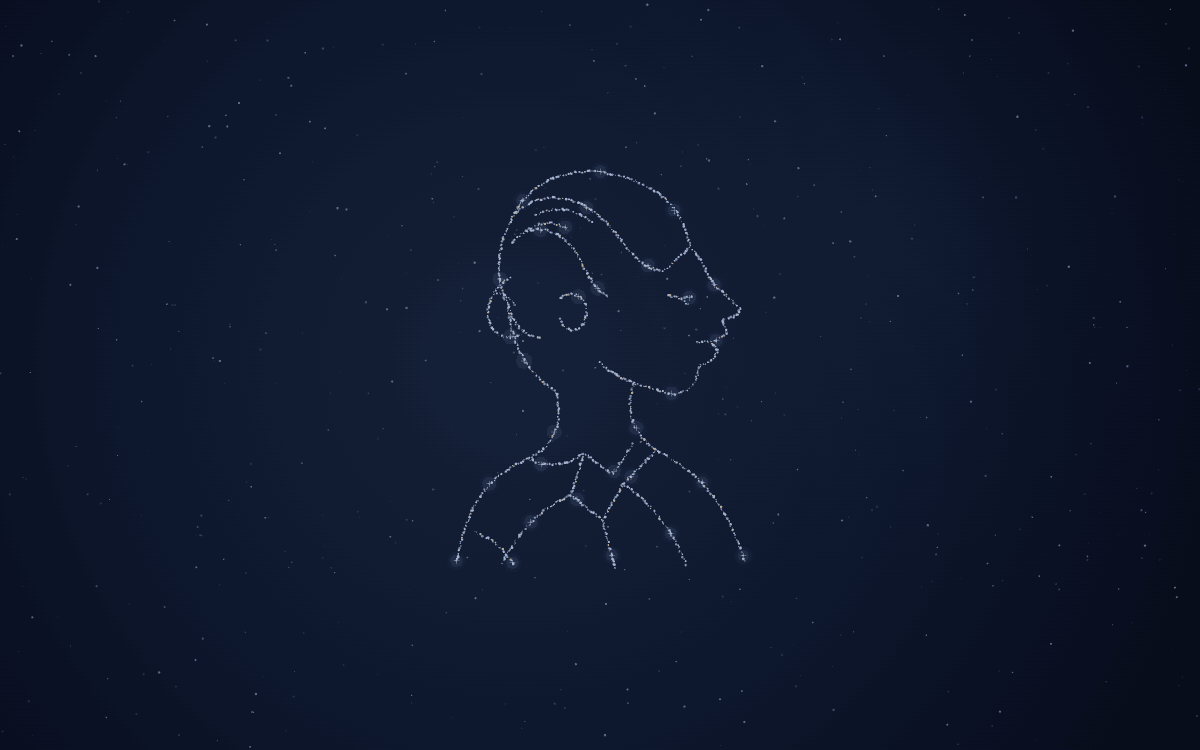
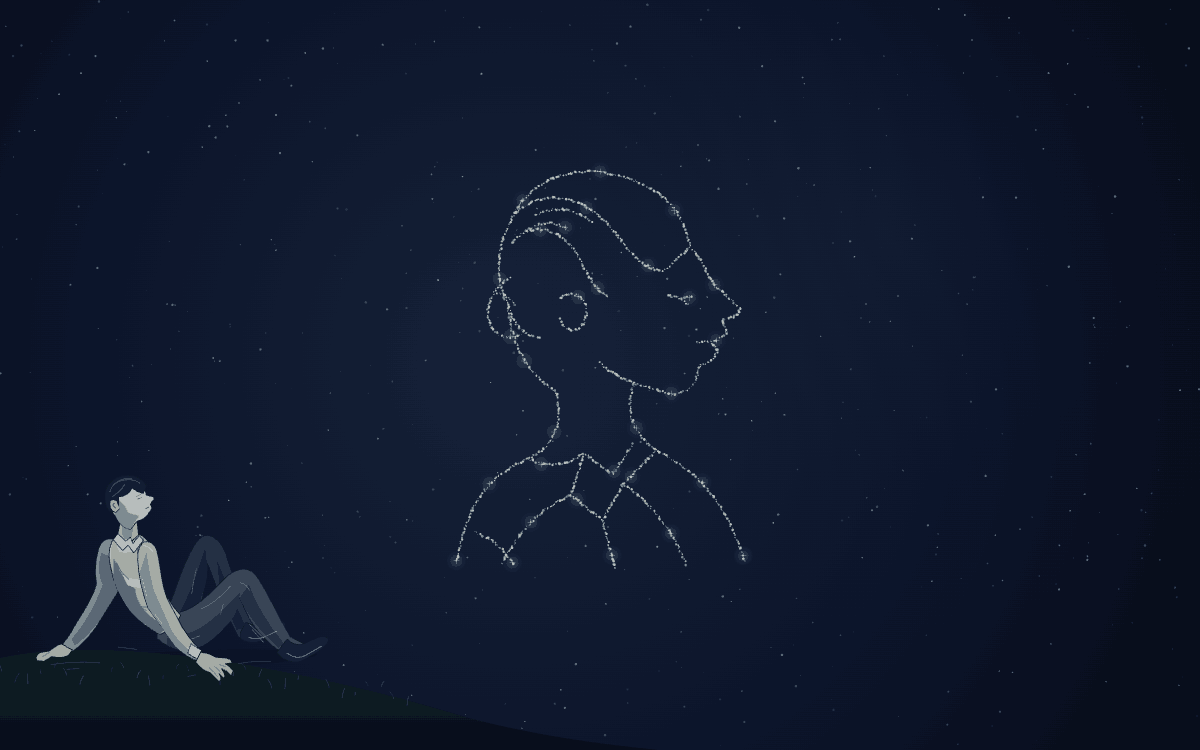
lab: update star-counting-night

Changed region(s): [[0.0308, 0.644, 0.2467, 0.92]]

diff --git a/lab/sketches/star-counting-night.html b/lab/sketches/star-counting-night.html
@@ -1,8 +1,8 @@
 <!doctype html>
 <html lang="ko"><head><meta charset="utf-8"><meta name="viewport" content="width=device-width,initial-scale=1"><meta name="theme-color" content="#080e20"><title>별 헤는 밤 — Lab</title><link rel="icon" href="data:,"><style>
-*{box-sizing:border-box}html,body{margin:0;width:100%;height:100%;overflow:hidden;background:#080e20;color:#e4e8ef;font-family:Archivo,"Helvetica Neue",Arial,sans-serif}canvas{display:block;width:100%;height:100%;touch-action:none}button,input{font:inherit}button{cursor:pointer}button:focus-visible,input:focus-visible,canvas:focus-visible{outline:1px solid #8095ff;outline-offset:7px}.choices{position:fixed;inset:auto 12% 76px;display:flex;justify-content:space-between;pointer-events:none}.star{pointer-events:auto;background:none;border:0;color:#99a4bb;min-width:64px;min-height:66px;padding:10px 12px;font-family:"AppleMyungjo","Batang",serif;font-size:13px;letter-spacing:4px;transition:color .6s}.star::before{content:"✧";display:block;font-family:Arial,sans-serif;font-size:24px;line-height:1.3;color:#bbc9ea;text-shadow:0 0 18px #829aff}.star[aria-pressed="true"]{color:#fff0d2}.star[aria-pressed="true"]::before{content:"✦";color:#e6cf9c}.star[data-seen="true"]::after{content:"·";display:block;position:absolute;margin-left:25px;color:#dbc89c}.hint{position:fixed;bottom:21px;left:20px;right:20px;text-align:center;font-size:11px;letter-spacing:1.2px;line-height:1.8;color:#8a8fa2;pointer-events:none;margin:0}.tools{position:fixed;top:22px;right:24px;display:flex;gap:18px}.tools button{border:0;background:none;color:#a2acc0;font-size:10px;letter-spacing:1.2px;padding:10px 0}.tools button[hidden]{display:none}.caption{position:fixed;top:13%;left:0;right:0;text-align:center;pointer-events:none;font-family:"AppleMyungjo","Batang",serif;color:#e6dfd3;font-size:clamp(19px,2.2vw,28px);letter-spacing:.5em;opacity:0;transition:opacity 1s}.caption.visible{opacity:1}.caption small{display:block;margin-top:17px;font-family:Archivo,Arial,sans-serif;color:#838da5;font-size:9px;letter-spacing:3px}.fallback{position:fixed;top:43%;left:10%;right:10%;text-align:center;font-size:14px;line-height:1.8;color:#c9c9c6}.fallback[hidden]{display:none}.sr{position:absolute;width:1px;height:1px;overflow:hidden;clip-path:inset(50%)}dialog{background:#10192bf5;color:#e4e8ef;border:1px solid #303c57;padding:28px;width:min(340px,85vw);box-shadow:0 20px 100px #0008}dialog::backdrop{background:#02050da0}dialog label{display:block;font-family:"AppleMyungjo","Batang",serif;letter-spacing:2px;margin-bottom:19px}dialog input{width:100%;padding:10px 0;border:0;border-bottom:1px solid #60708f;color:#fff;background:none;font-size:19px}dialog p{font-size:11px;color:#99a4bb;line-height:1.8}dialog div{display:flex;justify-content:flex-end;gap:20px;margin-top:24px}dialog button{border:0;background:none;color:#d6dfef;padding:8px;font-size:12px}svg{position:absolute;width:0;height:0;overflow:hidden}@media(max-width:500px){.choices{left:8%;right:8%;bottom:72px}.caption{top:16%}.tools{top:14px;right:20px}.star{font-size:12px;letter-spacing:3px}.hint{font-size:11px}.caption small{font-size:8px}}@media(max-height:480px){.caption{top:8%;font-size:18px}.caption small{display:none}.choices{left:5%;right:5%;bottom:37px}.star{min-height:48px;font-size:11px;padding:4px}.hint{bottom:9px}.tools{top:7px}}@media(prefers-reduced-motion:reduce){*{transition:none!important}}
+*{box-sizing:border-box}html,body{margin:0;width:100%;height:100%;overflow:hidden;background:#080e20;color:#e4e8ef;font-family:Archivo,"Helvetica Neue",Arial,sans-serif}canvas{display:block;width:100%;height:100%;touch-action:none}button,input{font:inherit}button{cursor:pointer}button:focus-visible,input:focus-visible,canvas:focus-visible{outline:1px solid #8095ff;outline-offset:7px}.choices{position:fixed;inset:auto 10% 76px 43%;display:flex;justify-content:space-between;pointer-events:none}.star{pointer-events:auto;background:none;border:0;color:#99a4bb;min-width:64px;min-height:66px;padding:10px 12px;font-family:"AppleMyungjo","Batang",serif;font-size:13px;letter-spacing:4px;transition:color .6s}.star::before{content:"✧";display:block;font-family:Arial,sans-serif;font-size:24px;line-height:1.3;color:#bbc9ea;text-shadow:0 0 18px #829aff}.star[aria-pressed="true"]{color:#fff0d2}.star[aria-pressed="true"]::before{content:"✦";color:#e6cf9c}.star[data-seen="true"]::after{content:"·";display:block;position:absolute;margin-left:25px;color:#dbc89c}.hint{position:fixed;bottom:21px;left:20px;right:20px;text-align:center;font-size:11px;letter-spacing:1.2px;line-height:1.8;color:#8a8fa2;pointer-events:none;margin:0}.tools{position:fixed;top:22px;right:24px;display:flex;gap:18px}.tools button{border:0;background:none;color:#a2acc0;font-size:10px;letter-spacing:1.2px;padding:10px 0}.tools button[hidden]{display:none}.caption{position:fixed;top:13%;left:0;right:0;text-align:center;pointer-events:none;font-family:"AppleMyungjo","Batang",serif;color:#e6dfd3;font-size:clamp(19px,2.2vw,28px);letter-spacing:.5em;opacity:0;transition:opacity 1s}.caption.visible{opacity:1}.caption small{display:block;margin-top:17px;font-family:Archivo,Arial,sans-serif;color:#838da5;font-size:9px;letter-spacing:3px}.fallback{position:fixed;top:43%;left:10%;right:10%;text-align:center;font-size:14px;line-height:1.8;color:#c9c9c6}.fallback[hidden]{display:none}.sr{position:absolute;width:1px;height:1px;overflow:hidden;clip-path:inset(50%)}dialog{background:#10192bf5;color:#e4e8ef;border:1px solid #303c57;padding:28px;width:min(340px,85vw);box-shadow:0 20px 100px #0008}dialog::backdrop{background:#02050da0}dialog label{display:block;font-family:"AppleMyungjo","Batang",serif;letter-spacing:2px;margin-bottom:19px}dialog input{width:100%;padding:10px 0;border:0;border-bottom:1px solid #60708f;color:#fff;background:none;font-size:19px}dialog p{font-size:11px;color:#99a4bb;line-height:1.8}dialog div{display:flex;justify-content:flex-end;gap:20px;margin-top:24px}dialog button{border:0;background:none;color:#d6dfef;padding:8px;font-size:12px}svg{position:absolute;width:0;height:0;overflow:hidden}@media(max-width:500px){.choices{left:8%;right:8%;bottom:72px}.caption{top:16%}.tools{top:14px;right:20px}.star{font-size:12px;letter-spacing:3px}.hint{font-size:11px}.caption small{font-size:8px}}@media(max-height:480px){.caption{top:8%;font-size:18px}.caption small{display:none}.choices{left:5%;right:5%;bottom:37px}.star{min-height:48px;font-size:11px;padding:4px}.hint{bottom:9px}.tools{top:7px}}@media(prefers-reduced-motion:reduce){*{transition:none!important}}
 </style></head><body>
-<canvas id="sky" tabindex="0" aria-label="별빛으로 기억을 그리는 밤하늘. 아래 추억, 쓸쓸함, 어머니 별을 선택하세요. 빈 하늘 클릭 또는 Escape로 흩어집니다."></canvas>
+<canvas id="sky" tabindex="0" aria-label="언덕에 기대 누워 하늘을 보는 윤동주와 별빛으로 기억을 그리는 밤하늘. 아래 추억, 쓸쓸함, 어머니 별을 선택하세요. 빈 하늘 클릭 또는 Escape로 흩어집니다."></canvas>
 <div class="caption" aria-hidden="true"><span id="word"></span><small id="verse"></small></div>
 <nav class="choices" aria-label="떠올릴 기억"><button class="star" data-scene="0" aria-pressed="false">추억</button><button class="star" data-scene="1" aria-pressed="false">쓸쓸함</button><button class="star" data-scene="2" aria-pressed="false">어머니</button></nav>
 <div class="tools"><button id="name" hidden>이름 남기기</button><button id="pause" aria-pressed="false">PAUSE</button></div>
@@ -38,9 +38,116 @@ function setTargets(){targetPoints=active===3?customPoints:active>=0?forms[activ
 function choose(index){active=index;setTargets();window.nightStats.active=active;window.nightStats.progress=progress;buttons.forEach((b,i)=>b.setAttribute('aria-pressed',String(i===index)));caption.classList.remove('visible');if(index>=0){announce.textContent=(index===3?document.querySelector('#memory-name').value.trim():scenes[index].word)+'의 별들이 모입니다.';}else announce.textContent='별들이 다시 밤하늘로 흩어집니다.';invalidate();}
 buttons.forEach((b,i)=>b.addEventListener('click',()=>choose(active===i?-1:i)));
 function background(){bg=document.createElement('canvas');bg.width=width;bg.height=height;const c=bg.getContext('2d');c.fillStyle='#080e20';c.fillRect(0,0,width,height);let g=c.createRadialGradient(width*.43,height*.48,0,width*.43,height*.48,width*.65);g.addColorStop(0,'#162239');g.addColorStop(.55,'#0c152b');g.addColorStop(1,'#070b19');c.fillStyle=g;c.fillRect(0,0,width,height);g=c.createRadialGradient(width*.74,height*.31,0,width*.74,height*.31,width*.34);g.addColorStop(0,'#493f551c');g.addColorStop(1,'#0c152b00');c.fillStyle=g;c.fillRect(0,0,width,height);}
+/* A small, interpretive ink portrait of the poet: no external assets.
+   Geometry is prebuilt once; time is the caller's animation clock in seconds.
+   Figure occupies a 400 × 280 drawing box at the lower left. The mobile
+   baseline leaves 176 px for scene choices and instructions. */
+const drawPoetForeground = (() => {
+  const path = (d) => new Path2D(d);
+  const shapes = {
+    farLeg: path('M171 198 C188 174 191 140 213 105 Q222 92 234 97 Q249 105 254 130 L282 203 304 210 300 222 267 224 Q254 199 244 173 L228 131 Q226 163 215 198 L205 215 Z'),
+    farLegShade: path('M225 109 Q230 141 225 157 L212 203 196 215 186 204 Q208 166 219 128 Z M239 124 Q257 169 277 212 L264 215 243 164 Z'),
+    farShoe: path('M276 205 Q289 211 301 210 L315 203 Q322 201 326 207 Q324 215 310 222 L289 230 Q276 231 269 225 L269 218 Z'),
+    nearLeg: path('M168 191 C199 201 223 177 245 154 C260 137 278 132 289 146 C301 162 315 194 332 223 L351 233 345 247 321 243 Q294 225 280 200 L268 174 C251 203 229 231 198 241 Q178 238 164 225 Z'),
+    nearLegShade: path('M178 220 C211 227 240 198 268 168 Q269 185 257 203 C238 225 222 239 198 241 L177 234 Z M280 158 Q293 194 324 232 L317 237 Q291 213 278 192 L268 175 Z'),
+    trouserLines: path('M220 188 Q239 180 257 159 M269 155 Q276 156 281 165 M280 207 L299 225 M284 214 L298 230 M214 137 Q209 157 208 169 M248 181 L244 195 M192 225 Q205 229 218 222'),
+    nearShoe: path('M328 226 Q338 236 349 232 L367 224 Q376 221 380 226 Q380 232 368 241 L347 253 Q336 258 322 250 L315 243 Z'),
+    shoeLight: path('M328 244 Q341 253 352 246 L371 235 M280 224 Q288 227 298 224 L315 216'),
+    rearArm: path('M113 101 Q97 96 91 111 Q84 135 88 157 C82 179 65 200 54 221 L44 234 55 244 Q73 232 87 212 L115 167 Q121 143 123 119 Z'),
+    rearArmShade: path('M94 118 Q88 143 96 158 C88 181 74 207 57 226 L61 234 Q78 222 95 198 L115 165 Q111 144 112 125 Z'),
+    rearHand: path('M44 232 Q37 234 29 241 L17 243 Q10 247 13 253 L22 254 32 248 Q42 251 52 247 L58 240 Z'),
+    shirt: path('M112 97 L132 92 Q145 93 153 103 C164 116 164 145 174 166 Q182 184 194 196 Q188 213 168 220 C151 212 134 198 124 181 Q109 157 105 131 Q101 111 112 97 Z'),
+    shirtShade: path('M110 125 Q121 151 137 164 C138 184 157 202 177 210 L168 220 Q135 201 124 181 Q112 162 109 147 Z M147 99 Q153 120 150 135 Q145 138 142 132 L136 99 Z'),
+    shirtLight: path('M111 103 Q123 103 134 98 L142 111 Q130 120 117 117 Z M121 145 Q135 153 153 151 L158 161 Q139 164 127 158 Z'),
+    shirtFolds: path('M113 130 Q119 144 129 151 M129 178 Q139 188 151 190 M138 181 Q145 187 153 186 M152 175 Q157 188 172 198 M158 201 L171 205 M148 126 L145 148 M143 154 L147 167 M122 166 L127 175'),
+    neck: path('M119 74 L115 95 Q118 108 130 106 L141 96 139 77 Z'),
+    neckShade: path('M121 78 L135 81 133 98 124 102 120 94 Z'),
+    head: path('M111 40 C115 28 132 26 143 34 Q150 38 151 46 L159 48 Q163 50 158 54 L156 58 Q160 62 155 67 Q151 76 139 79 L131 89 Q119 87 113 74 Q105 66 105 54 Z'),
+    faceShade: path('M117 53 Q124 57 128 68 L142 72 137 79 131 89 Q119 87 113 74 Q108 67 108 60 Z'),
+    hair: path('M108 68 Q99 64 99 51 C97 37 107 24 121 22 Q140 18 151 34 L147 44 Q139 42 133 37 Q127 48 116 48 L116 60 111 65 Z'),
+    hairSweep: path('M105 42 Q108 29 123 27 Q135 25 143 31 M108 48 Q119 41 124 32 M111 32 Q121 23 132 25'),
+    ear: path('M113 53 Q105 49 105 57 Q105 65 112 68 L117 63'),
+    faceLines: path('M138 48 L144 45 M140 51 L145 49 M154 61 L150 63 M111 57 Q109 55 109 59 L112 62'),
+    collar: path('M115 94 L125 103 131 98 134 106 142 96 147 102 135 118 128 108 121 115 109 101 Z'),
+    nearArm: path('M147 104 Q159 101 164 114 C169 133 169 155 177 175 L196 211 Q207 229 221 242 L215 253 Q194 245 183 229 L153 187 C145 166 141 145 140 126 Q139 112 147 104 Z'),
+    nearArmShade: path('M151 117 Q154 141 160 164 L183 216 Q195 235 215 247 L211 252 Q190 241 182 228 L153 187 Q145 164 143 142 Z'),
+    cuff: path('M207 232 L220 240 216 252 203 244 Z'),
+    nearHand: path('M219 243 Q230 243 238 249 L252 250 Q259 252 258 256 L250 257 Q257 261 260 266 L258 271 Q256 272 253 267 L245 263 Q252 273 248 275 L242 269 Q247 278 242 279 L231 268 Q221 266 213 255 Z'),
+    fingers: path('M242 258 L251 261 M236 260 Q242 264 245 269 M230 262 Q237 268 241 274 M29 243 L20 248'),
+    seams: path('M147 108 Q154 109 159 116 M146 150 L152 174 M161 194 L171 207 M202 237 L213 243 M108 105 Q104 115 106 125'),
+    groundStrokes: path('M31 258 Q65 253 92 256 M115 236 L139 239 M266 257 Q287 253 307 254 M203 273 L213 271 M51 264 L67 263'),
+  };
+  const grass = Array.from({length: 30}, (_, i) => ({
+    x: ((i * 137.17) % 565) - 70,
+    y: 273 + Math.sin(i * 1.91) * 11 + Math.max(0, ((i * 137.17) % 565) - 330) * .12,
+    h: 4 + (i * 17 % 10), lean: Math.sin(i * 2.2) * 5, phase: i * 1.63,
+  }));
+  return function drawPoetForeground(ctx, width, height, time) {
+    const mobile = width <= 600;
+    const short = height <= 480;
+    const desiredWidth = mobile ? Math.min(190, Math.max(155, width * .45)) : Math.min(345, Math.max(270, width * .265));
+    const scale = Math.min(desiredWidth / 400, height * (short ? .46 : .37) / 280);
+    const baseline = height - (short ? 115 : mobile ? 176 : 68);
+    const left = mobile ? 9 : Math.max(15, width * .022);
+    const top = baseline - 280 * scale;
+    const breath = Math.sin(time * .74) * .8;
+    ctx.save();
+    // The low bank continues to the canvas edges and provides a quiet base.
+    const hill = ctx.createLinearGradient(0, baseline - 12, 0, height);
+    hill.addColorStop(0, '#102126'); hill.addColorStop(.5, '#0b171f'); hill.addColorStop(1, '#080f19');
+    ctx.fillStyle = hill;
+    ctx.beginPath(); ctx.moveTo(0, baseline - 30 * scale);
+    ctx.bezierCurveTo(width * .09, baseline - 60 * scale, width * .25, baseline - 20 * scale, width * .39, baseline + 45 * scale);
+    ctx.bezierCurveTo(width * .53, baseline + 100 * scale, width * .68, height + 10, width, height + 28);
+    ctx.lineTo(width,height); ctx.lineTo(0,height); ctx.closePath(); ctx.fill();
+    // Scale all line weights with the figure so they stay delicate on mobile.
+    ctx.translate(left, top); ctx.scale(scale, scale);
+    ctx.lineJoin = 'round'; ctx.lineCap = 'round';
+    const draw = (shape, fill, outline = true, line = 1.05) => {
+      if (fill) { ctx.fillStyle = fill; ctx.fill(shapes[shape]); }
+      if (outline) { ctx.lineWidth = line; ctx.strokeStyle = '#111d28'; ctx.stroke(shapes[shape]); }
+    };
+    const stroke = (shape, color, line = .9) => {
+      ctx.lineWidth = line; ctx.strokeStyle = color; ctx.stroke(shapes[shape]);
+    };
+    // Small grass blades use only the supplied clock; pause also freezes wind.
+    for (const blade of grass) {
+      const wind = Math.sin(time * .52 + blade.phase) * 1.3;
+      ctx.strokeStyle = blade.x % 3 > 1 ? '#36464a' : '#24373b'; ctx.lineWidth = .8;
+      ctx.beginPath(); ctx.moveTo(blade.x, blade.y); ctx.quadraticCurveTo(blade.x + blade.lean * .3, blade.y - blade.h * .65, blade.x + blade.lean + wind, blade.y - blade.h); ctx.stroke();
+    }
+    // Contact shadows anchor hands and clothes to the slope.
+    ctx.fillStyle = 'rgba(4,11,18,.24)';
+    ctx.beginPath(); ctx.ellipse(190,253,176,12,-.045,0,Math.PI*2);ctx.fill();
+    draw('farLeg','#283442'); draw('farLegShade','#1d2a38',false);
+    draw('farShoe','#1b2733');
+    draw('nearLeg','#394553'); draw('nearLegShade','#263341',false);
+    stroke('trouserLines','#627078',.72);
+    draw('nearShoe','#1d2934'); stroke('shoeLight','#83908f',.85);
+    draw('rearArm','#818f90'); draw('rearArmShade','#535f68',false); draw('rearHand','#a9a692');
+    // Breath deforms the chest around the hips, leaving planted hands still.
+    ctx.save(); ctx.translate(170,211); ctx.scale(1,1 + breath * .004); ctx.translate(-170,-211);
+    draw('shirt','#9ca7a3'); draw('shirtShade','#6c7b7d',false); draw('shirtLight','#b8c0b4',false); stroke('shirtFolds','#596970',.85);
+    ctx.save();ctx.translate(0,-breath);
+    draw('neck','#bbb6a1'); draw('neckShade','#858f89',false);
+    draw('head','#c1bfaa'); draw('faceShade','#8b9993',false);
+    draw('hair','#17222d'); stroke('hairSweep','#53616a',.8);
+    draw('ear','#a5ab99',true,.8); stroke('faceLines','#3c5058',.8);
+    ctx.restore();
+    draw('collar','#bec6b8',true,.85);
+    ctx.restore();
+    draw('nearArm','#a5afa7'); draw('nearArmShade','#748383',false);draw('cuff','#c0c6b5',true,.8);
+    draw('nearHand','#bcb8a0',true,.85);stroke('fingers','#637570',.8);stroke('seams','#ced2bd',.65);
+    stroke('groundStrokes','#374648',.8);
+    ctx.restore();
+    return {x:left, y:top + 20*scale, width:380*scale, height:260*scale, baseline};
+  };
+})();
+
 function paint(dt){ctx.setTransform(dpr,0,0,dpr,0,0);ctx.drawImage(bg,0,0);const motion=!paused&&!reduced.matches;if(motion){time+=dt;progress=Math.min(1,progress+dt/(active<0?3:4.5));parallax.x+=(mouse.x-parallax.x)*Math.min(1,dt*2);parallax.y+=(mouse.y-parallax.y)*Math.min(1,dt*2);}else if(reduced.matches){parallax.x=parallax.y=0;progress=1;}
 for(const s of field){const twinkle=.35+.2*Math.sin(time*.45+s.phase);ctx.fillStyle='rgba(171,193,231,'+twinkle+')';ctx.beginPath();ctx.arc(s.x*width+parallax.x*s.depth*7,s.y*height+parallax.y*s.depth*7,s.size,0,Math.PI*2);ctx.fill();}
 for(let i=0;i<N;i++){const p=particles[i],t=Math.max(0,Math.min(1,(progress-p.delay)/(1-p.delay))),e=t*t*t*(t*(t*6-15)+10);p.x=p.sx+(p.tx-p.sx)*e+Math.sin(t*Math.PI)*p.arc*.45;p.y=p.sy+(p.ty-p.sy)*e+Math.sin(t*Math.PI)*p.arc;const flutter=motion?Math.sin(time*.7+p.phase):Math.sin(p.phase);const x=p.x*width+parallax.x*3,y=p.y*height+parallax.y*3,a=active>=0?.40+e*.32:.26;ctx.fillStyle=(i%7===0?'rgba(239,212,162,':'rgba(195,212,244,')+(a+flutter*.10)+')';ctx.beginPath();ctx.arc(x,y,p.size*(active>=0?1:.7),0,Math.PI*2);ctx.fill();if(i%47===0){const glow=ctx.createRadialGradient(x,y,0,x,y,10);glow.addColorStop(0,'rgba(182,207,255,.18)');glow.addColorStop(1,'rgba(122,155,255,0)');ctx.fillStyle=glow;ctx.fillRect(x-10,y-10,20,20);ctx.strokeStyle='rgba(218,227,251,.5)';ctx.lineWidth=.5;ctx.beginPath();ctx.moveTo(x-3,y);ctx.lineTo(x+3,y);ctx.moveTo(x,y-3);ctx.lineTo(x,y+3);ctx.stroke();}}
+drawPoetForeground(ctx,width,height,time);
 if(active>=0&&progress>.8){word.textContent=active===3?document.querySelector('#memory-name').value.trim():scenes[active].word;verse.textContent=active===3?'당신이 떠올린 이름':scenes[active].verse;caption.classList.add('visible');if(active<3&&!seen.has(active)){seen.add(active);buttons[active].dataset.seen='true';if(seen.size===3)document.querySelector('#name').hidden=false;}}window.nightStats.frames++;window.nightStats.active=active;window.nightStats.progress=progress;}
 window.nightStats={frames:0,active:-1,progress:1};
 function tick(now){frame=0;if(document.hidden)return;const dt=last?Math.min((now-last)/1000,.05):0;last=now;paint(dt);if(!paused&&!reduced.matches)invalidate();else last=0;}

diff --git a/lab/sketches/making/star-counting-night.md b/lab/sketches/making/star-counting-night.md
@@ -1,6 +1,6 @@
 # 별 헤는 밤
 
-**GPT-6 Astra Light · 2026·09 · 대화 2회, 수정 0회**
+**GPT-6 Astra Light · 2026·09 · 대화 3회, 수정 1회**
 윤동주의 시에서 출발해 별이 기억의 윤곽으로 모이는 세 장면을 만들었습니다.
 모델 표기는 이 대화에서 사용자가 지정한 명칭을 유지했습니다. 대화 횟수는 이 작품의 기획 요청과 구현 요청 기준입니다.
 
@@ -48,3 +48,16 @@
 ---
 
 *이 기록은 실제 대화에서 그대로 옮긴 것입니다. 각색하지 않았습니다.*
+
+## 언덕 위의 시인 추가
+
+> 자 이제 좌측 하단에, 윤동주가 언덕 위에 누워서 이 이미지와 같은 느낌으로 누워서 하늘을 바라보고 있는(idle 움직임 포함) 상태였으면 좋겠어.
+
+- 사용자가 첨부한 기대 누운 인물의 자세를 참고해 왼쪽 아래에 낮은 언덕과 시인을 추가했습니다. 기존 밤하늘과 별의 형상은 유지했습니다.
+- 참고 이미지의 자세를 새 Canvas 벡터 일러스트로 해석했습니다. 윤동주의 실제 사진을 복제한 초상은 아닙니다.
+- 팔로 몸을 지지하고 무릎을 구부린 채 오른쪽 위 하늘을 바라보는 모습으로 구성했습니다. 옷과 풀에는 차가운 별빛 색을 사용했습니다.
+- 인물의 호흡과 고개의 미세한 움직임, 풀의 흔들림을 기존 시간 루프에 연결해 PAUSE, 동작 줄이기, 백그라운드 정지와 함께 멈추도록 했습니다.
+- 데스크톱에서 선택 별을 오른쪽으로 조정하고 모바일에서는 인물이 선택 영역 위에 위치하게 했습니다. 조정은 이 스케치 내부에만 적용했습니다.
+
+- 헤드리스 Chrome 1280×800에서 약 3초간 실제 렌더 프레임을 측정해 평균 59.9fps를 확인했습니다. 인물 포함 장면의 움직임, 일시정지·동작 줄이기 상태의 동일한 캔버스 이미지, 375×812 및 800×400 배치와 선택 버튼을 검증했습니다. 콘솔 오류와 JavaScript 예외는 0개였습니다.
+- 인물이 포함된 새 장면으로 카드와 커버를 갱신했습니다(각각 39,558 / 50,329바이트). 목록·공용 뷰어·제작 기록 렌더링과 모바일 뷰어 실행을 확인했고 오류는 0개였습니다.
